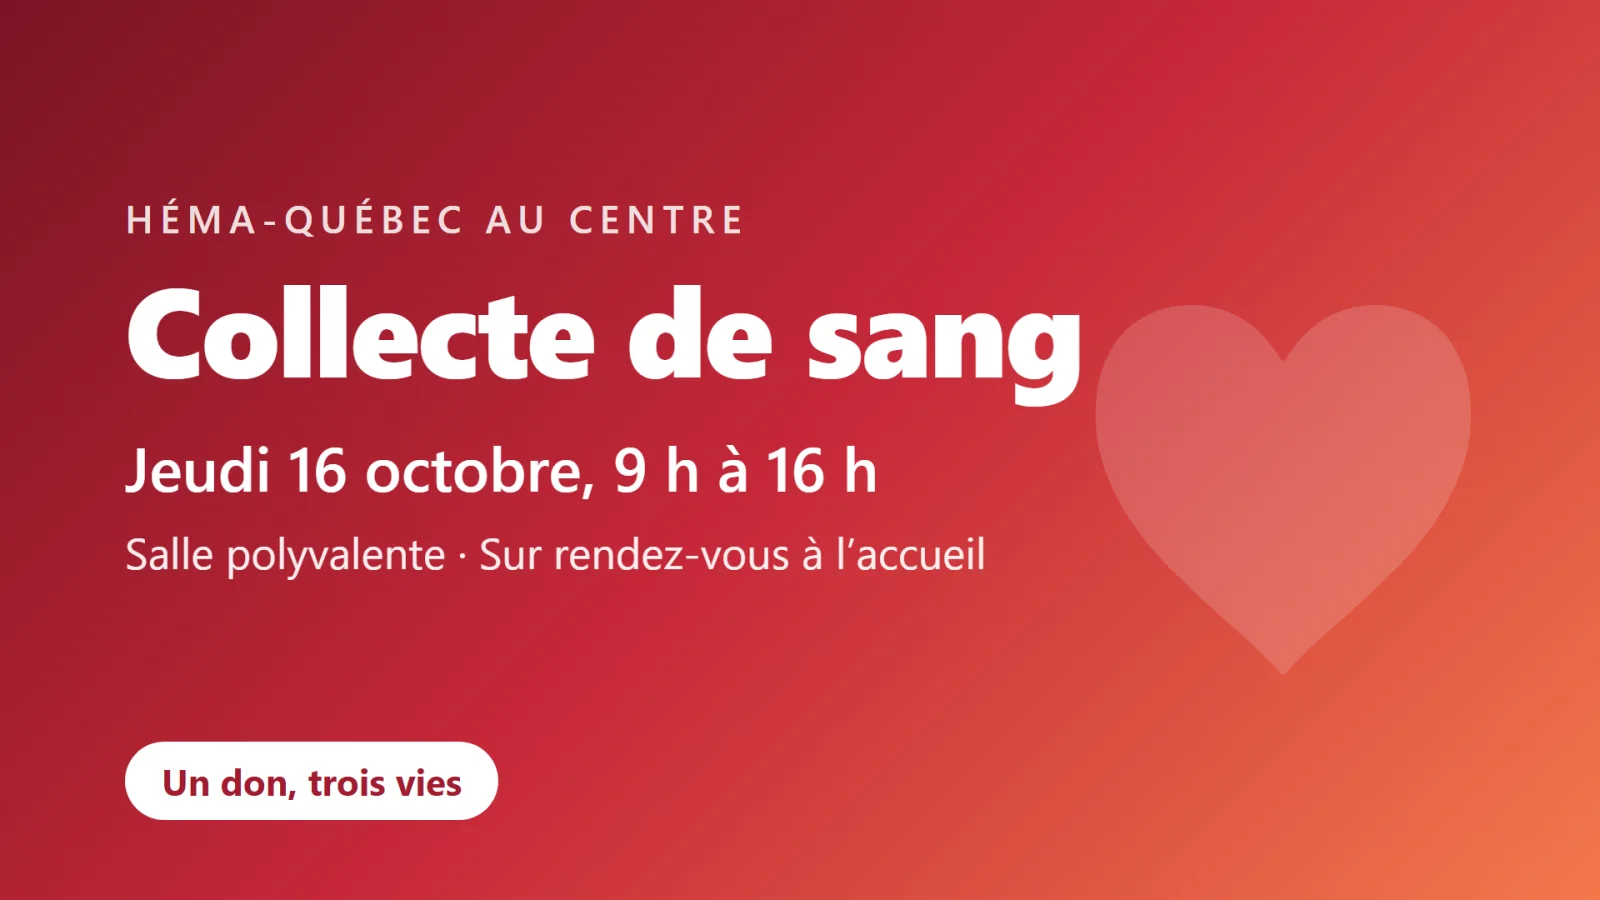
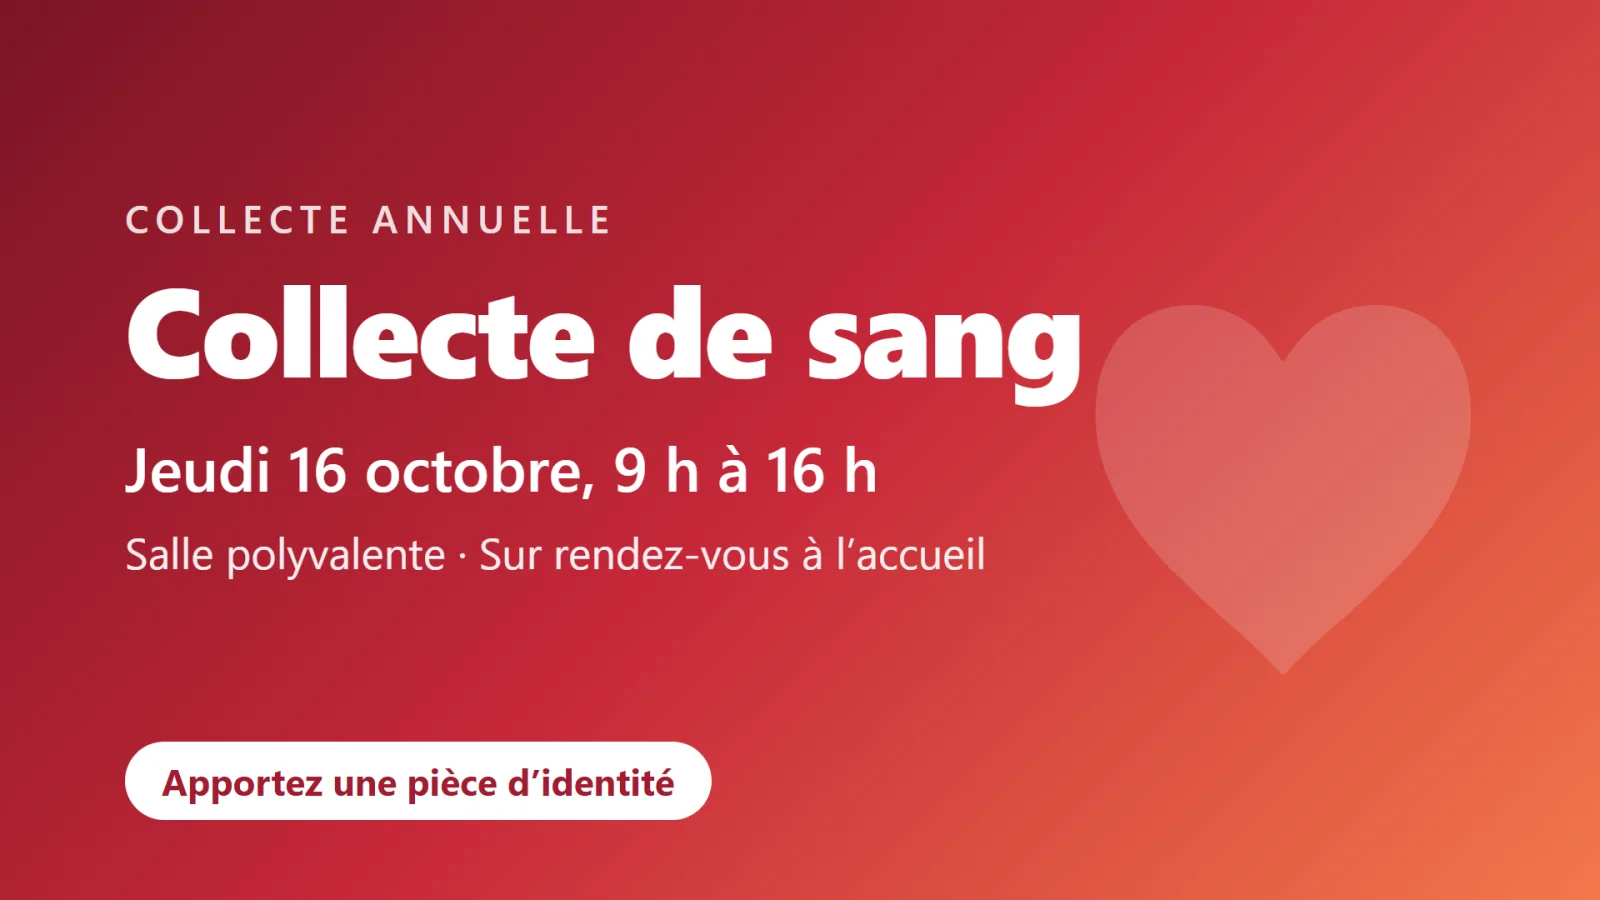
Affiche « Collecte de sang » sans nom d’organisme réel

Changed region(s): [[0.0938, 0.8089, 0.4688, 0.9333], [0.0625, 0.2178, 0.4688, 0.28]]

diff --git a/tools/posters/sang.html b/tools/posters/sang.html
@@ -14,10 +14,10 @@ h1 { font-size: 150px; line-height: 1; margin: 0 0 44px; font-weight: 800; lette
 <body>
 <div class="heart">&#9829;</div>
 <div class="box">
-  <p class="kicker">Héma-Québec au centre</p>
+  <p class="kicker">Collecte annuelle</p>
   <h1>Collecte de sang</h1>
   <p class="when">Jeudi 16 octobre, 9 h à 16 h</p>
   <p class="where">Salle polyvalente · Sur rendez-vous à l’accueil</p>
 </div>
-<div class="pill">Un don, trois vies</div>
+<div class="pill">Apportez une pièce d’identité</div>
 </body></html>
